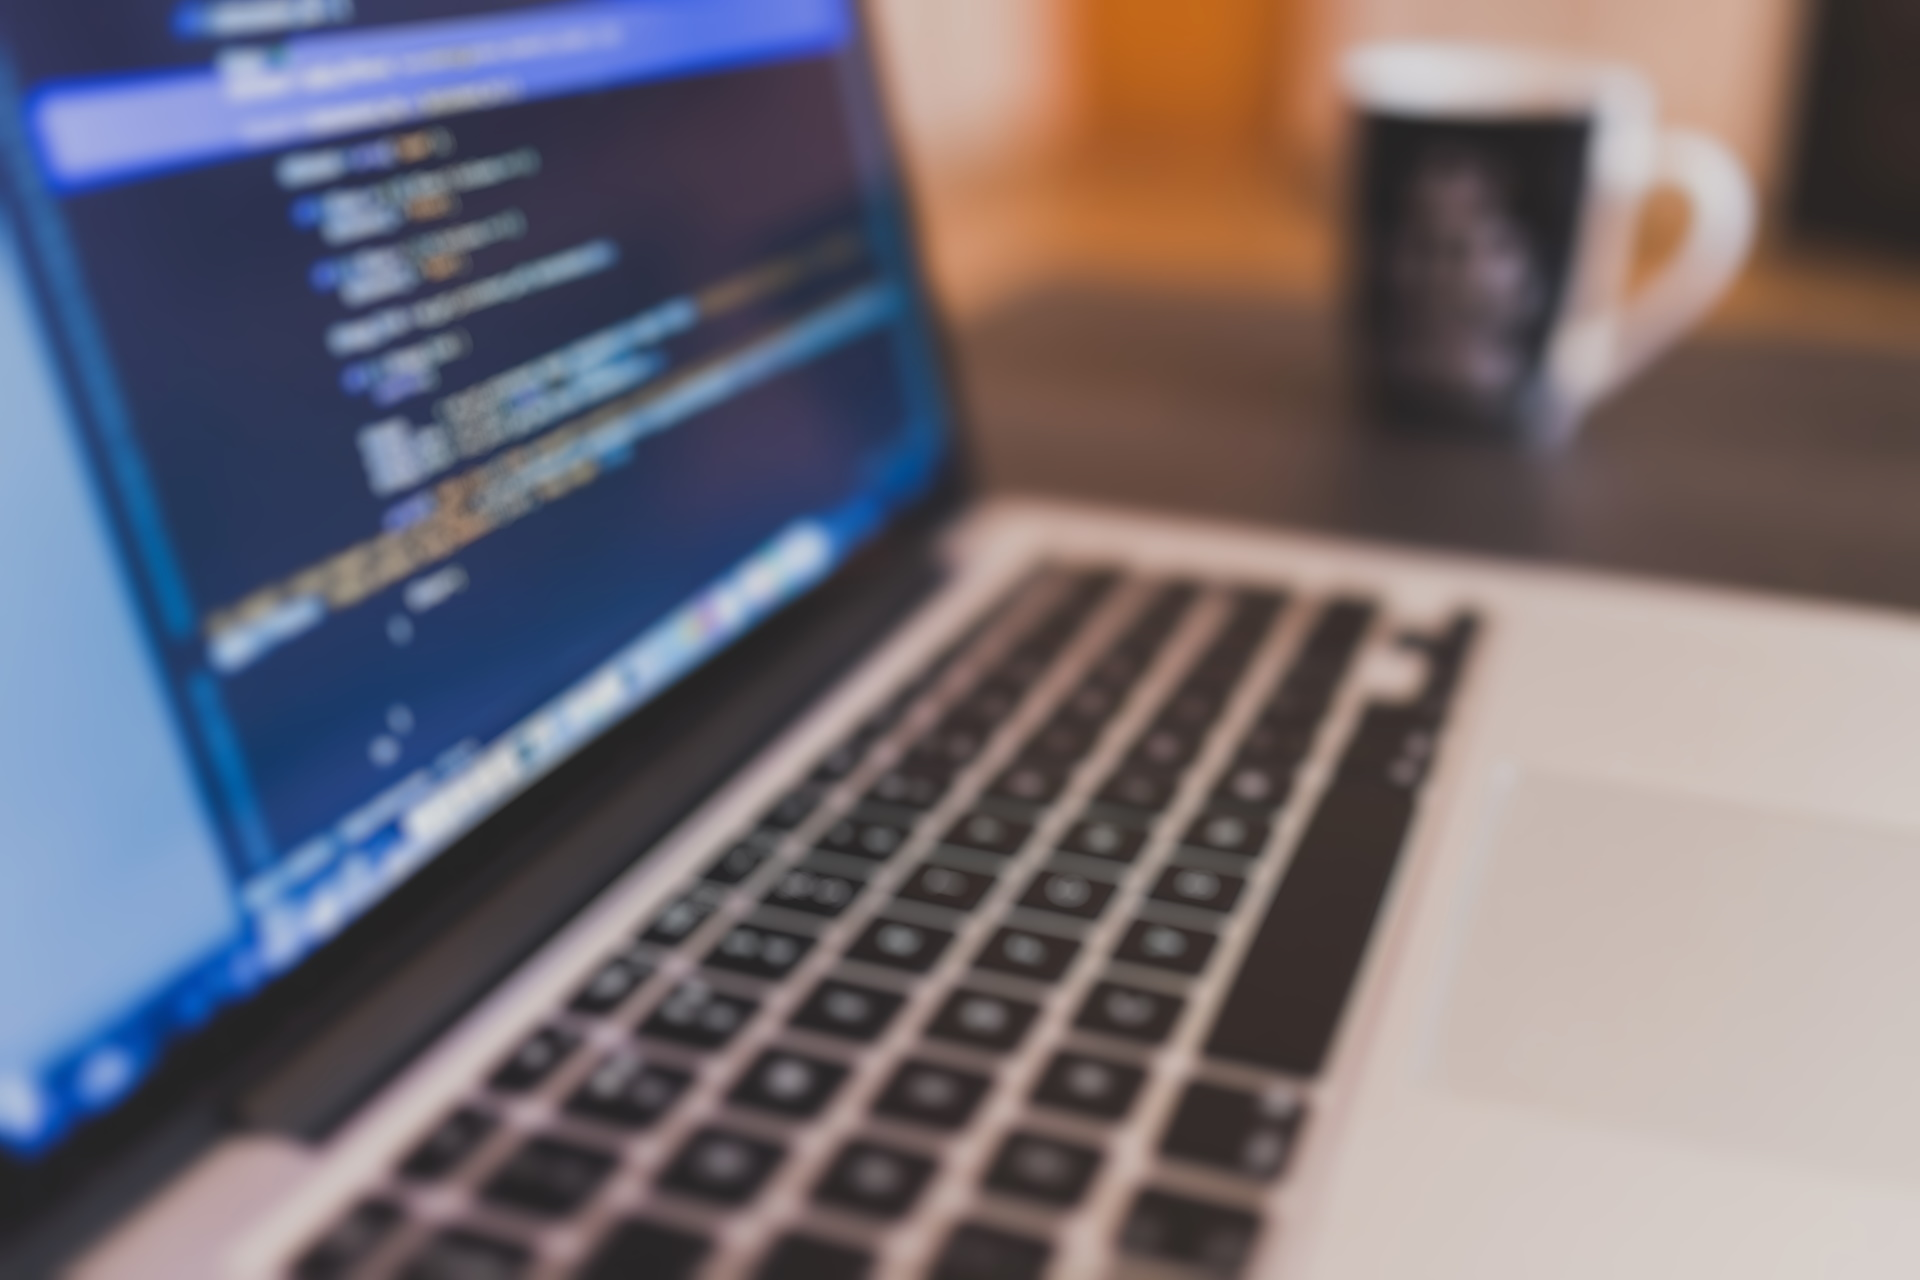
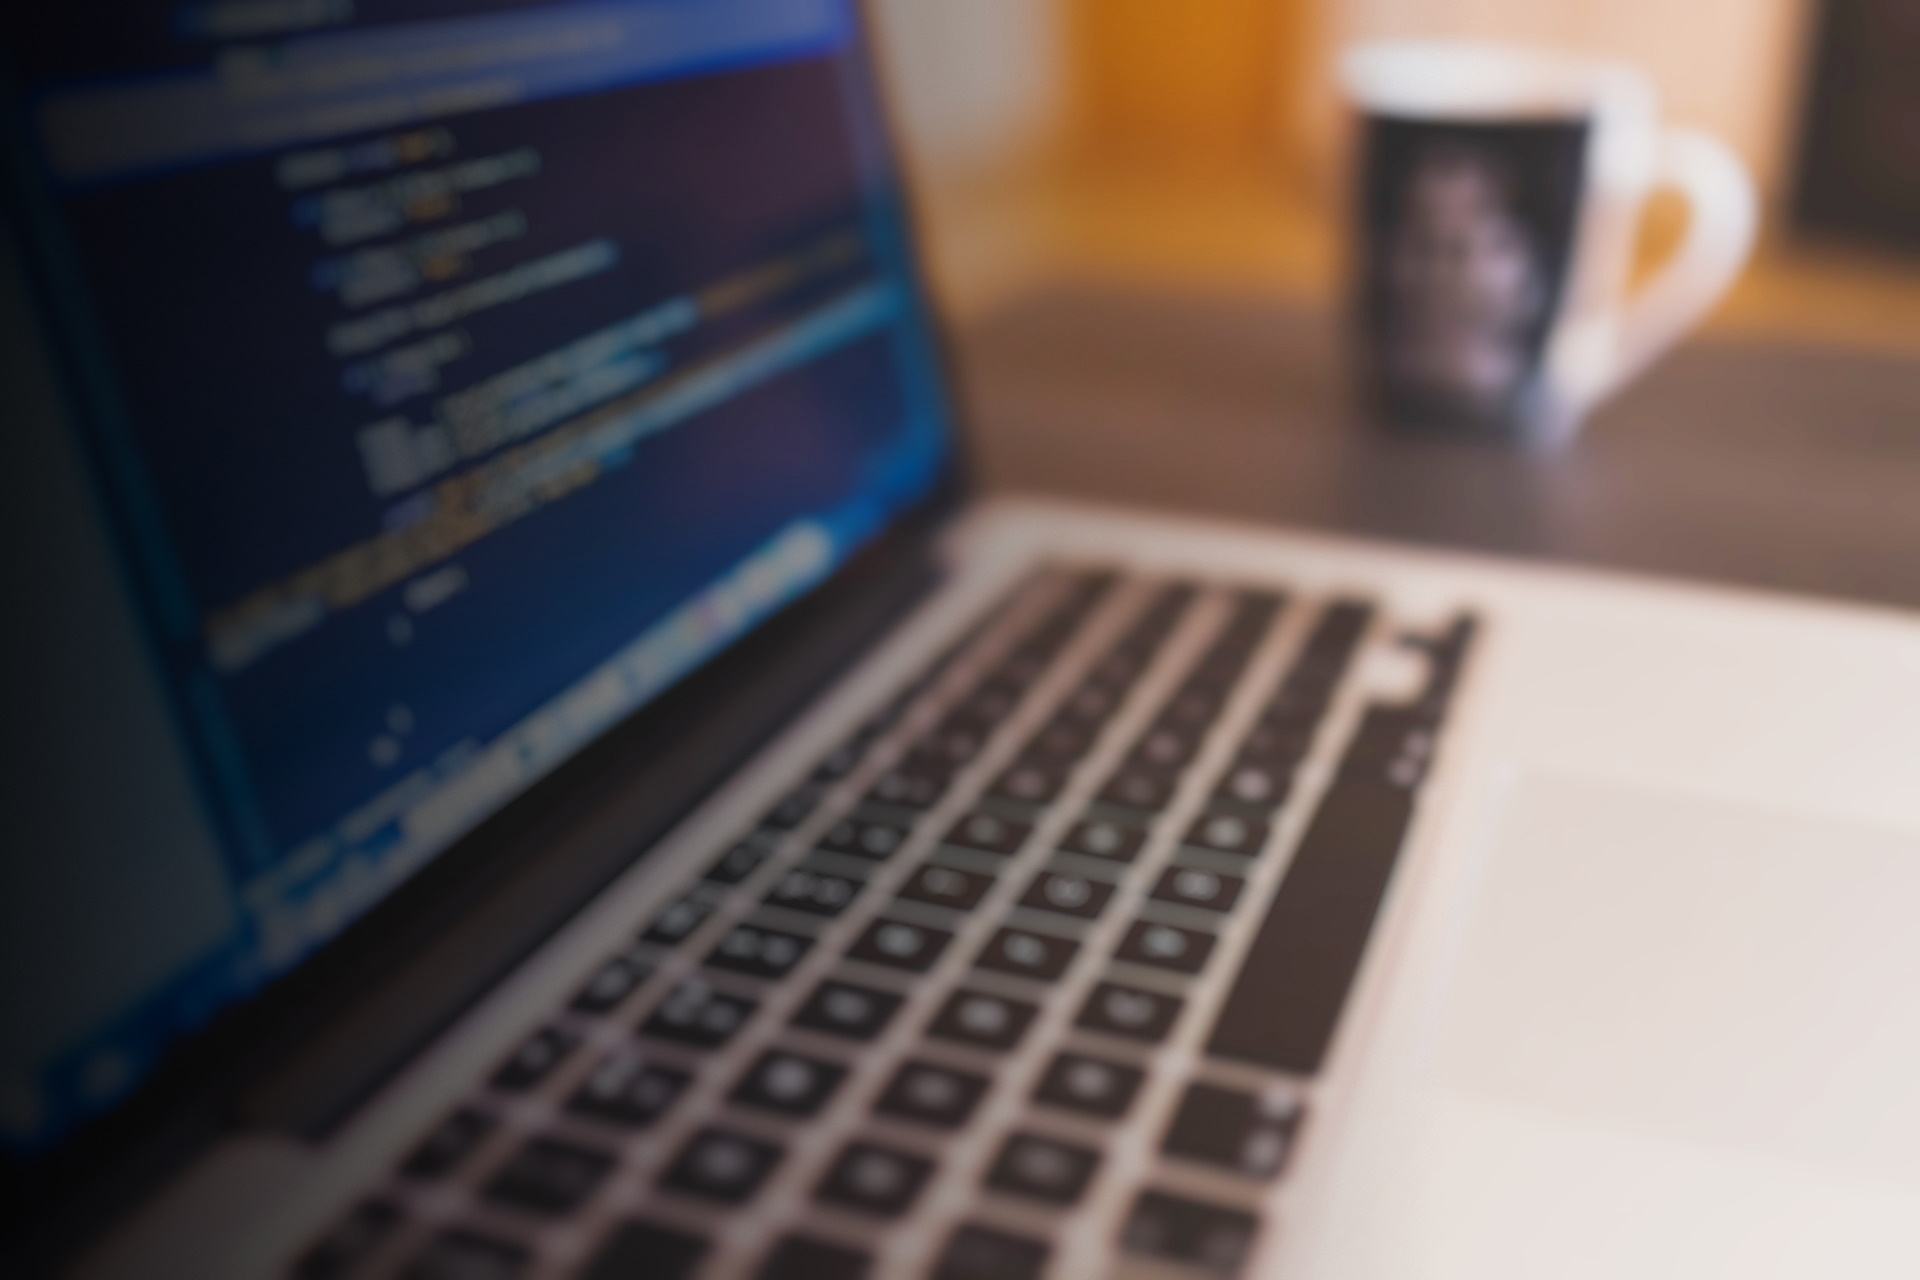
alterando background

diff --git a/index.html b/index.html
@@ -40,15 +40,22 @@
     <main id="sobreMim">
       <img
         class="imagemDeFundo"
-        src="./src/images/coding-924920_1920.jpg"
+        src="./src/images/background.png"
         alt="imagem de programação"
       />
       <div class="boasvindas">
-        <h1>Olá, me chamo Línicker!</h1><br>
+        <h1><strong>Olá, me chamo Línicker!</strong></h1>
+        <br /><br>
         <h3>
-          Sou entusiasta no ramo da TI e atual estudante de Sistemas de
-          informação, procuro desenvolver projetos para aprimorar meu
-          conhecimento
+          Bem-vindo ao meu mundo digital! Meu nome é Línicker, e sou apaixonado
+          por Tecnologia. Atualmente, estou trilhando meu caminho
+          como estudante de Sistemas de Informação, onde mergulho profundamente
+          no universo da computação, programação e inovação.
+          <br /><br />
+          Este é o meu portfólio, uma janela para meu mundo de conquistas,
+          projetos e aprendizados. Aqui, você encontrará uma coleção de
+          trabalhos que refletem meu compromisso em aprimorar minhas habilidades
+          e contribuir para a comunidade de TI.
         </h3>
       </div>
     </main>

diff --git a/src/css/styles.css b/src/css/styles.css
@@ -4,7 +4,7 @@ body {
 }
 
 .cabecalho {
-  height:60px;
+  height:70px;
   background-color: rgb(12, 11, 23);
   border-bottom: 3px solid #342e62;
 }
@@ -19,8 +19,8 @@ body {
   font-family: "Noto Sans", sans-serif;
   display: inline-block;
   margin-right: 25px;
-  padding: 16px;
-  font-size: 18px;
+  padding: 22px;
+  font-size: 16px;
 }
 
 .opcoes li:hover {
@@ -29,24 +29,25 @@ body {
 
 #sobremim {
   position: relative;
+  
 }
 .boasvindas {
-    
   position: absolute;
   font-family: "Noto Sans", sans-serif;
-  top: 50%;
+  text-align: justify;
+  top: 56%;
   left: 38%;
   transform: translate(-50%, -50%);
   z-index: 1;
   color: aliceblue;
-
+  letter-spacing: 1px; 
   padding: 20px; /* Espaçamento interno */
-  
 }
 
 .boasvindas h1{
     font-size: 64px;
     font-weight: bold;
+    letter-spacing: 2px; 
 }
 
 .boasvindas h1,

diff --git a/src/css/reset.css b/src/css/reset.css
@@ -1,26 +1,25 @@
 * {
-    margin: 0;
-    padding: 0;
-    box-sizing: border-box;
-  }
-  
-  ul {
-    list-style: none;
-  }
-  
-  a {
-    text-decoration: none;
-    color: inherit;
-  }
+  margin: 0;
+  padding: 0;
+  box-sizing: border-box;
+}
+
+ul {
+  list-style: none;
+}
+
+a {
+  text-decoration: none;
+  color: inherit;
+}
 body::-webkit-scrollbar {
-  width: 4px; 
+  width: 4px;
 }
 
 body::-webkit-scrollbar-thumb {
-  background-color: #342e62; 
+  background-color: #342e62;
 }
 
 body::-webkit-scrollbar-track {
-  background-color: aliceblue; 
+  background-color: aliceblue;
 }
-
